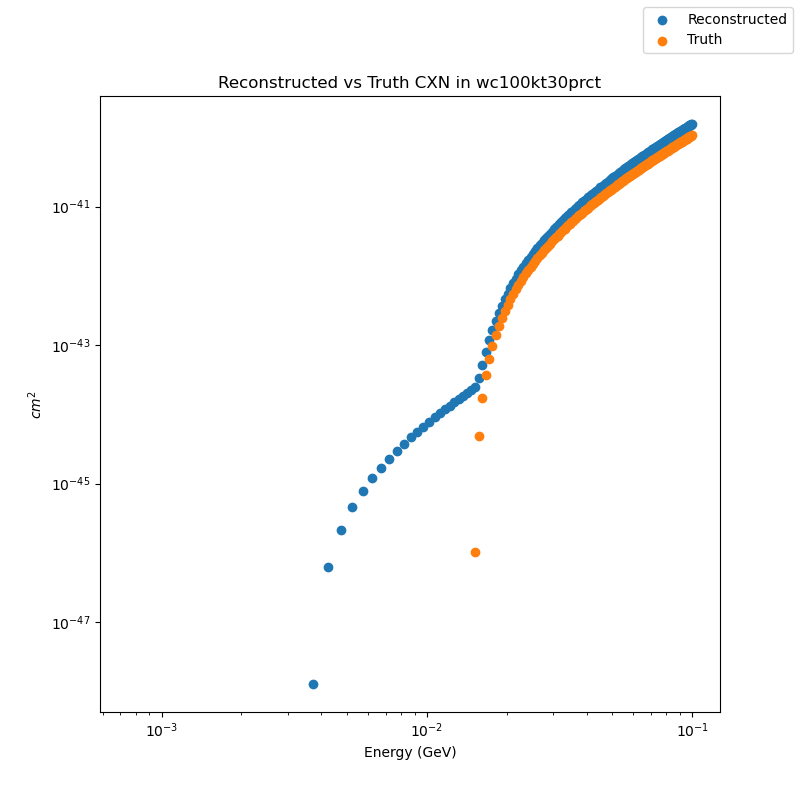
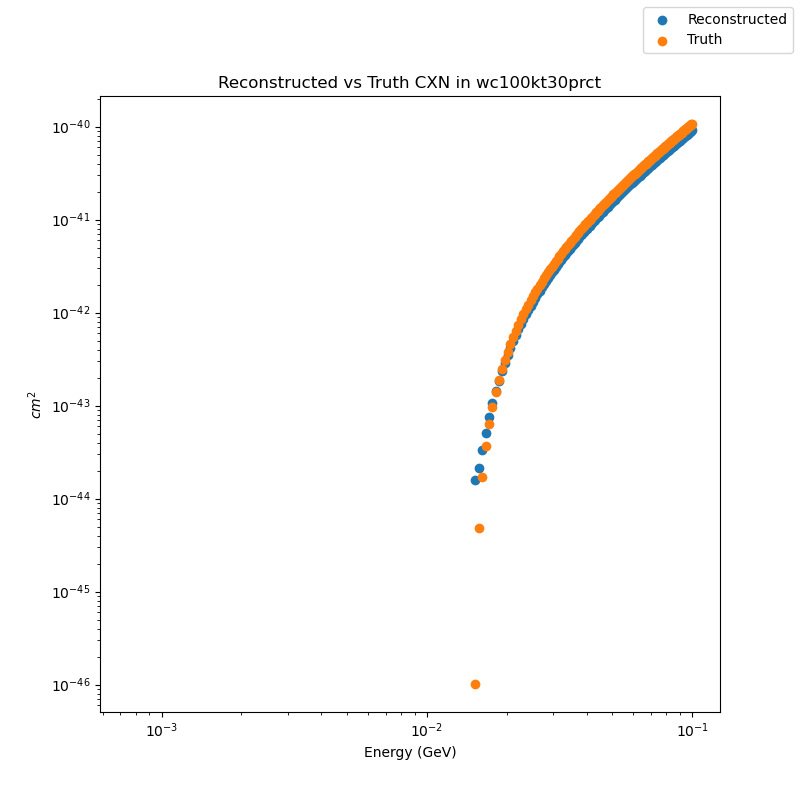
time cuts cxn reconstructed much better

diff --git a/time_cuts.py b/time_cuts.py
@@ -55,21 +55,16 @@ if __name__ == '__main__':
         # ndet_axes.set_ylabel('Event count / MeV')
 
         # ndet_interpolated = np.interp(flux_energy_spectra,l_data[time]['Energy']*100,l_data[time]['ibd'])
-        nux_fluence = np.add(
-            labeled[time][2],
-            np.add(
-                np.add(
-                    labeled[time][3],
-                    labeled[time][5]
-                ),
-                labeled[time][6]
-            )
-        )
+        nux_fluence = labeled[time][1] + labeled[time][2] + labeled[time][3] + labeled[time][4] + labeled[time][5] + labeled[time][6]
         flux_interpolated = np.interp(l_data[time]['Energy']*1000, flux_energy_spectra, nux_fluence)
         cxn_reconstructed = np.divide(
             l_data[time]['nc'],
             flux_interpolated
         )/(config.proxyconfig.Nt_scint20kt()[0]*2.5) # divide by 2.5 since the energy bin widths are different
+
+        # if we're using scint20kt, then we need to 0 out the cxn for energies less than 10 MeV (0.01 GeV)
+        cxn_reconstructed[l_data[0]['Energy']*1000 < 15] = 0
+
         # ratio_axes.scatter(
         #     l_data[time]['Energy']*1000,
         #     cxn_reconstructed
